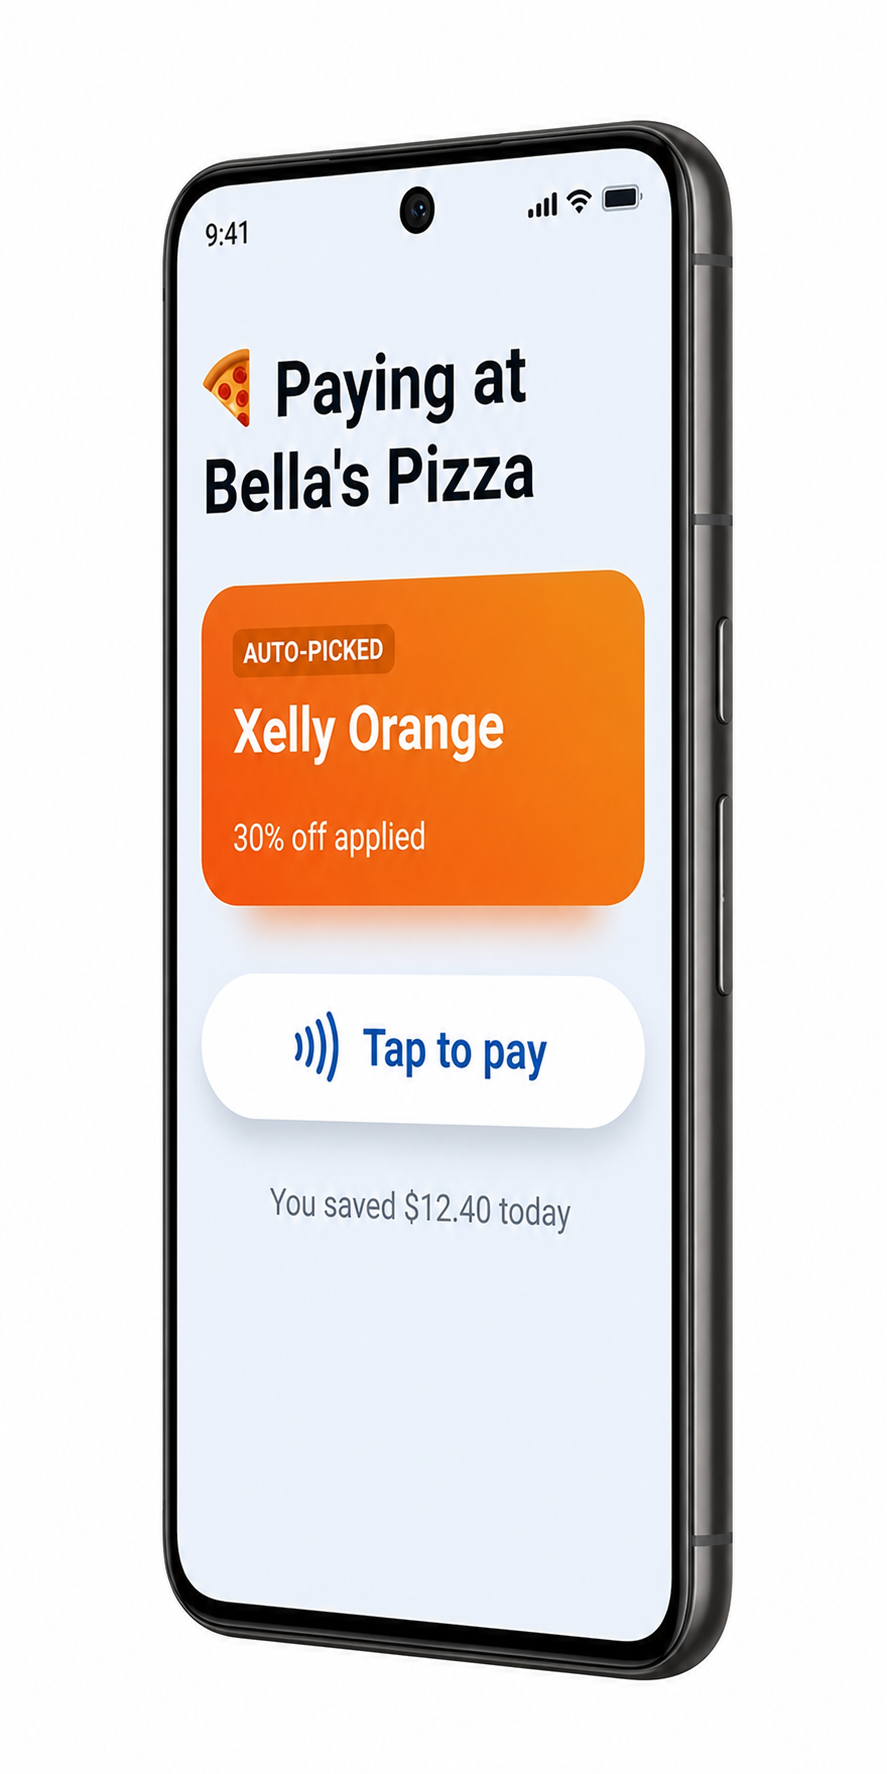
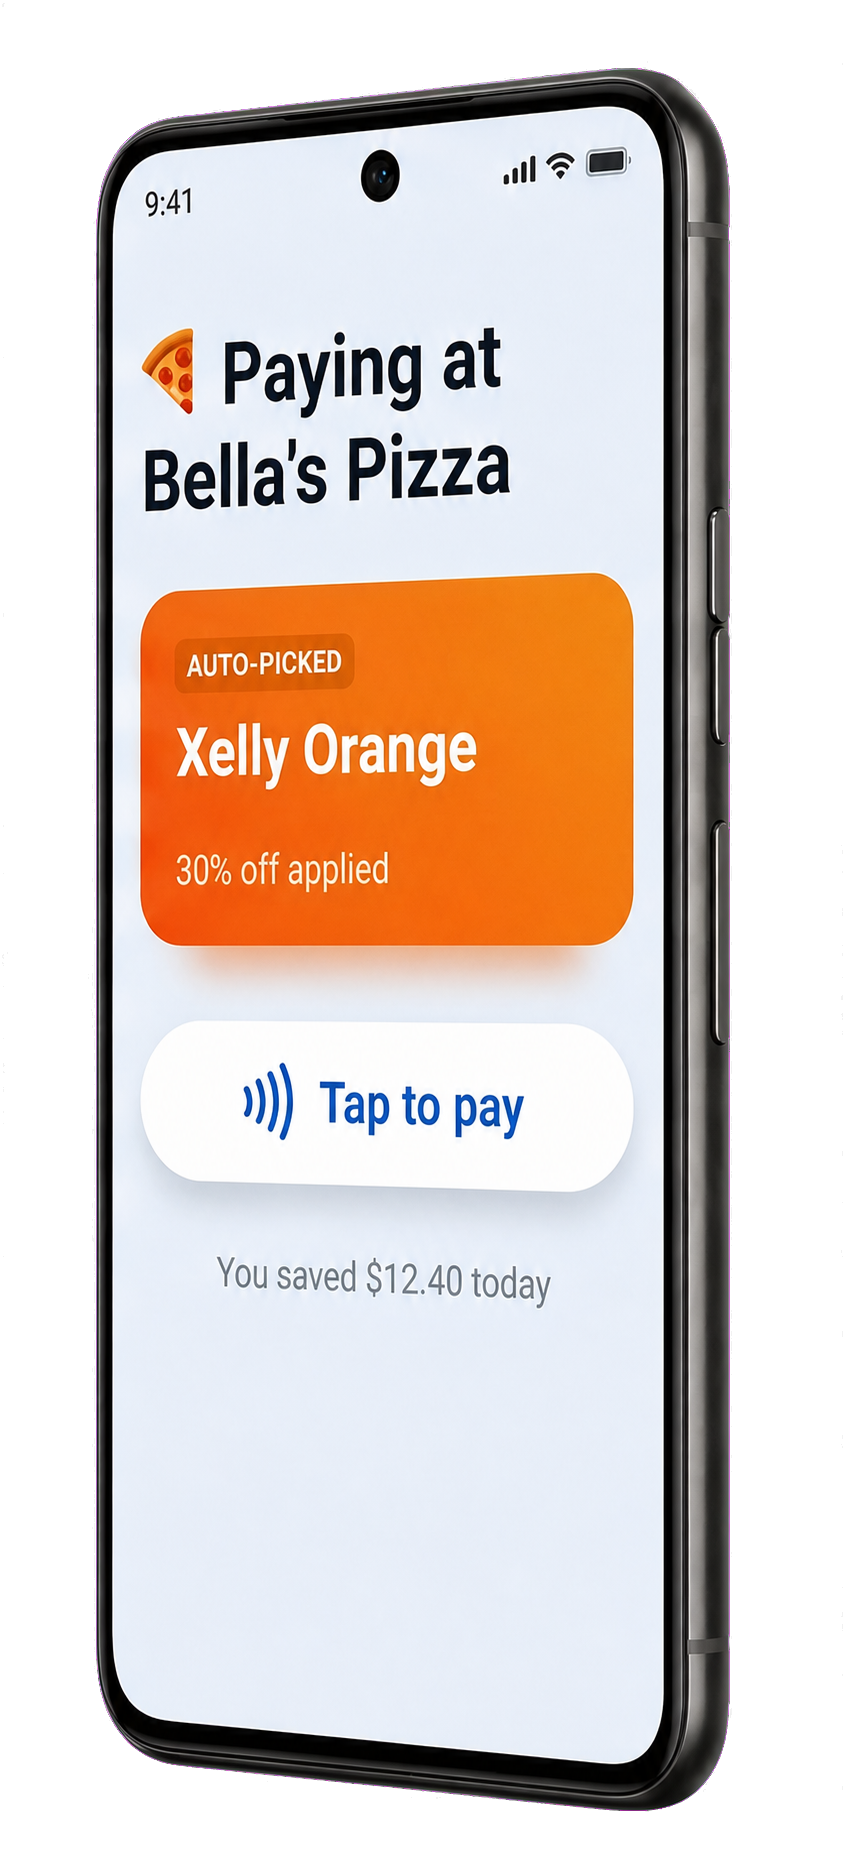
fix: remove phone image background

Changed region(s): [[0.092, 0.031, 0.8585, 0.9921]]

diff --git a/src/components/FutureWallet.tsx b/src/components/FutureWallet.tsx
@@ -11,8 +11,8 @@ function GalaxyPhone() {
       <Image
         src="/xelly-phone-clean.png"
         alt="Android phone showing the Xelly wallet auto-picking the Xelly Orange card with 30% off at Bella's Pizza, ready for tap-to-pay"
-        width={887}
-        height={1774}
+        width={848}
+        height={1855}
         className="h-auto w-full drop-shadow-2xl"
       />
     </div>